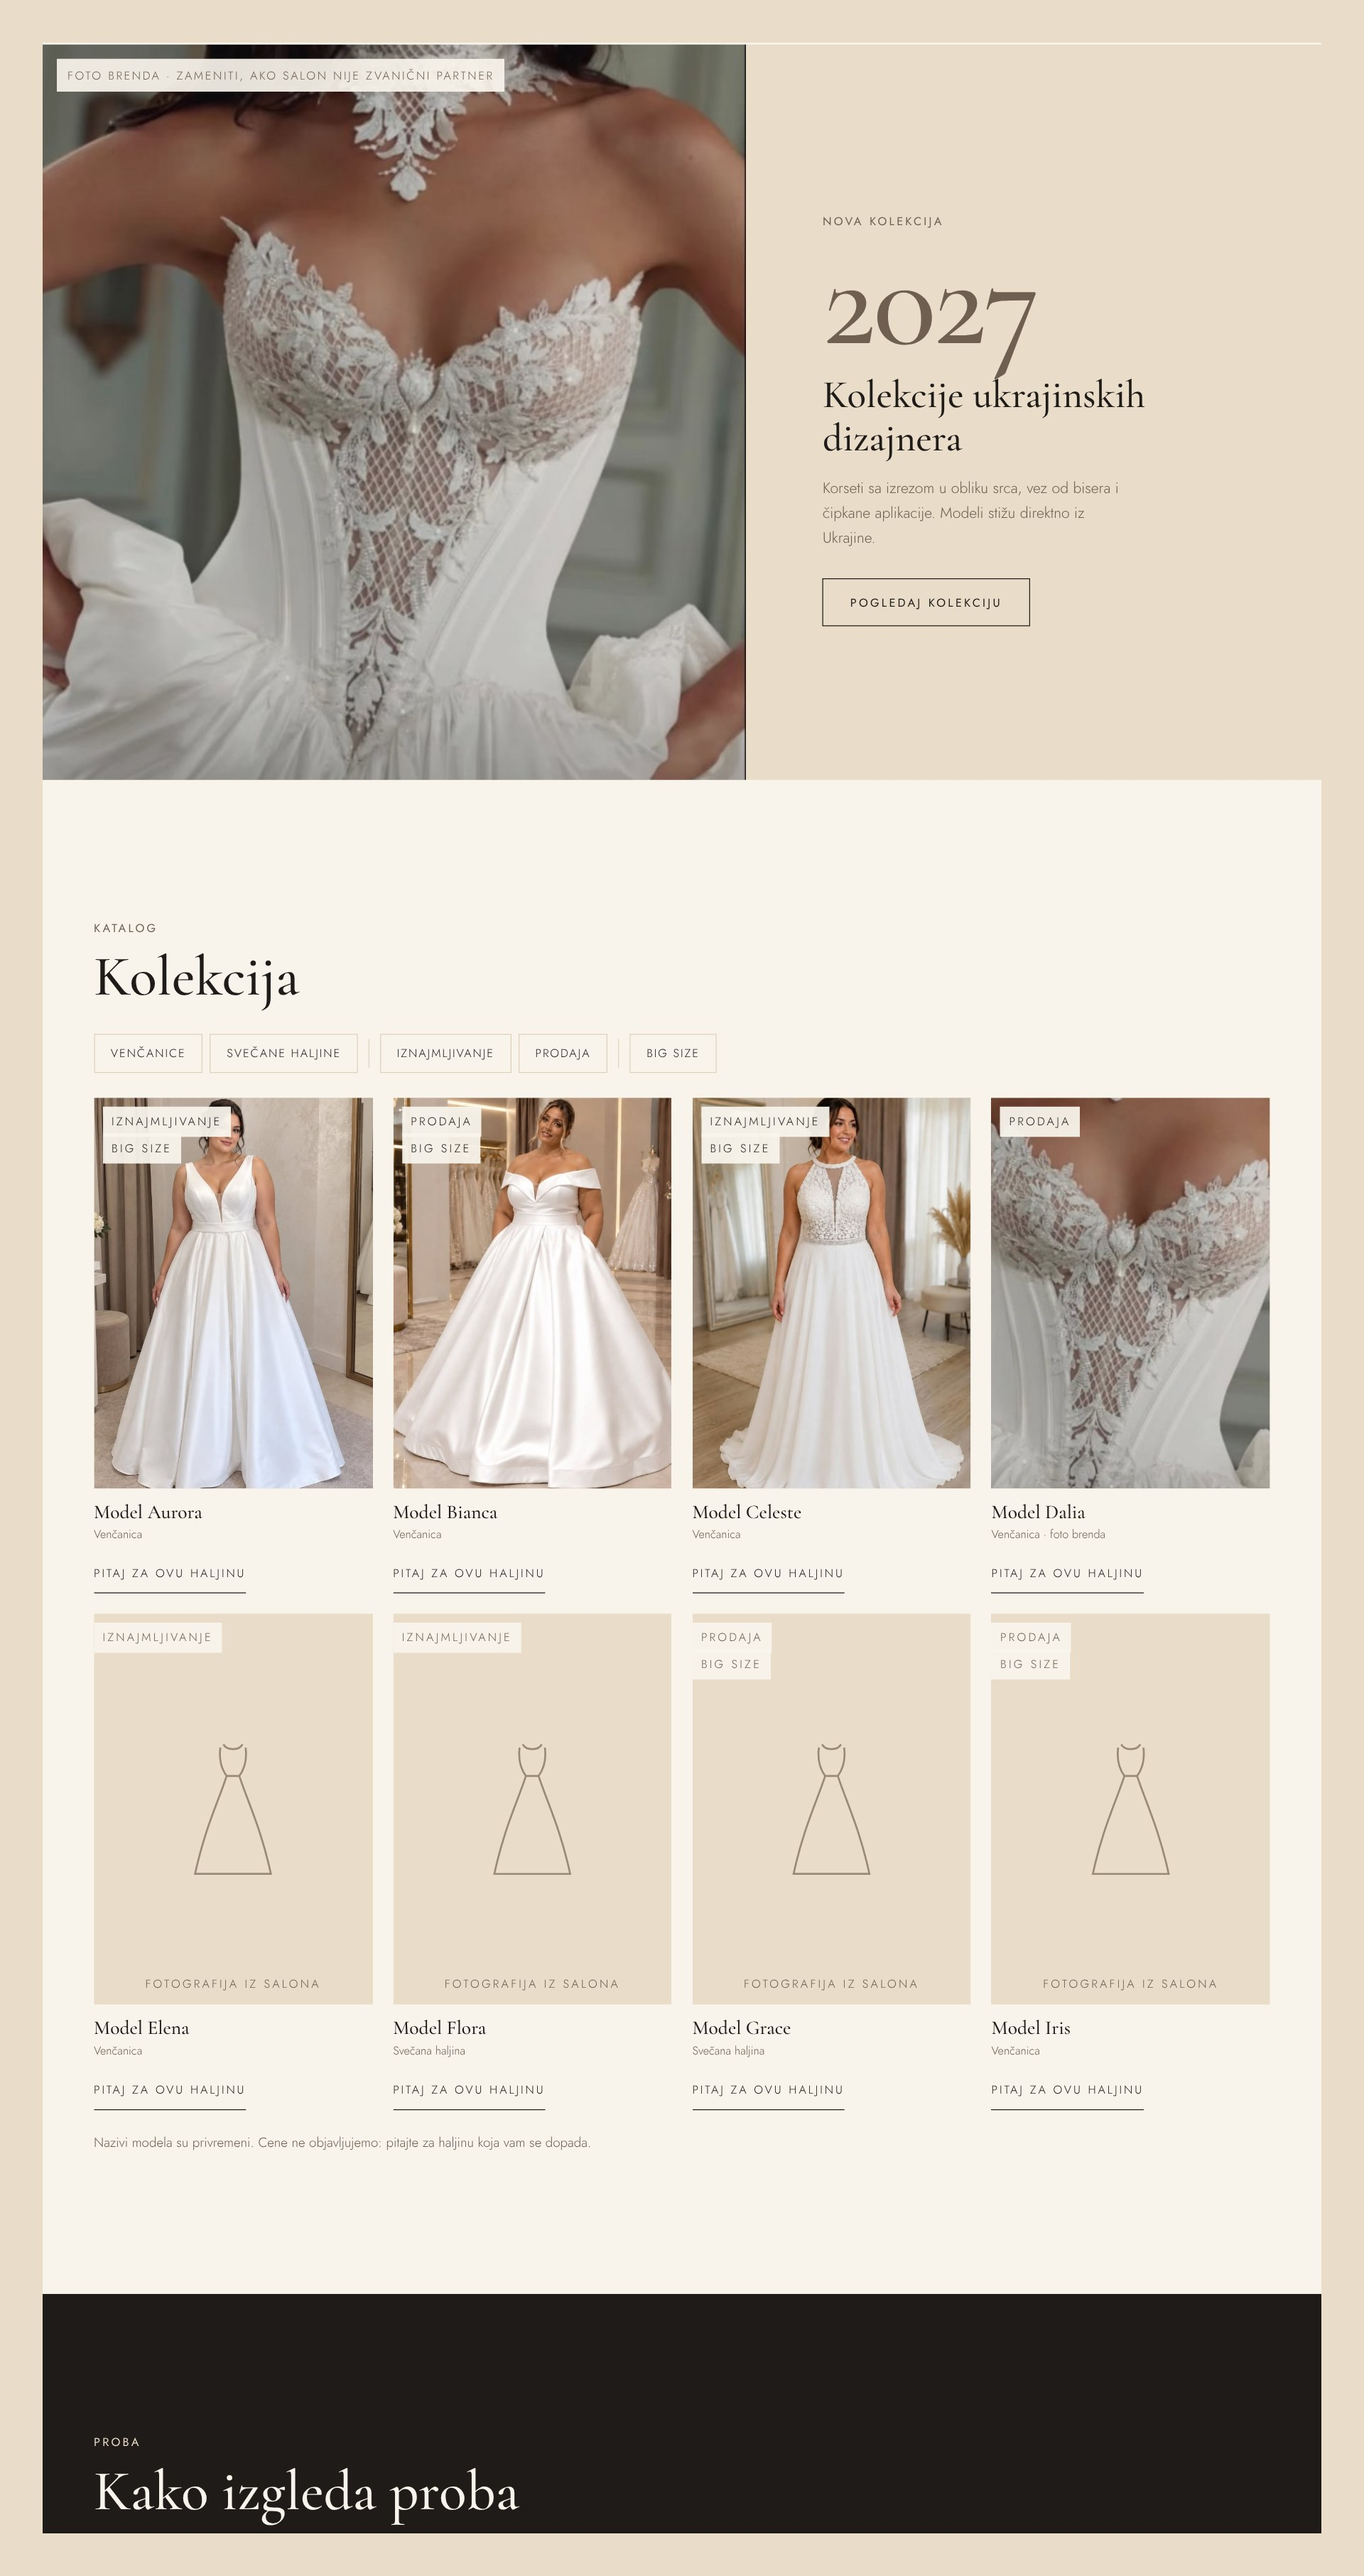
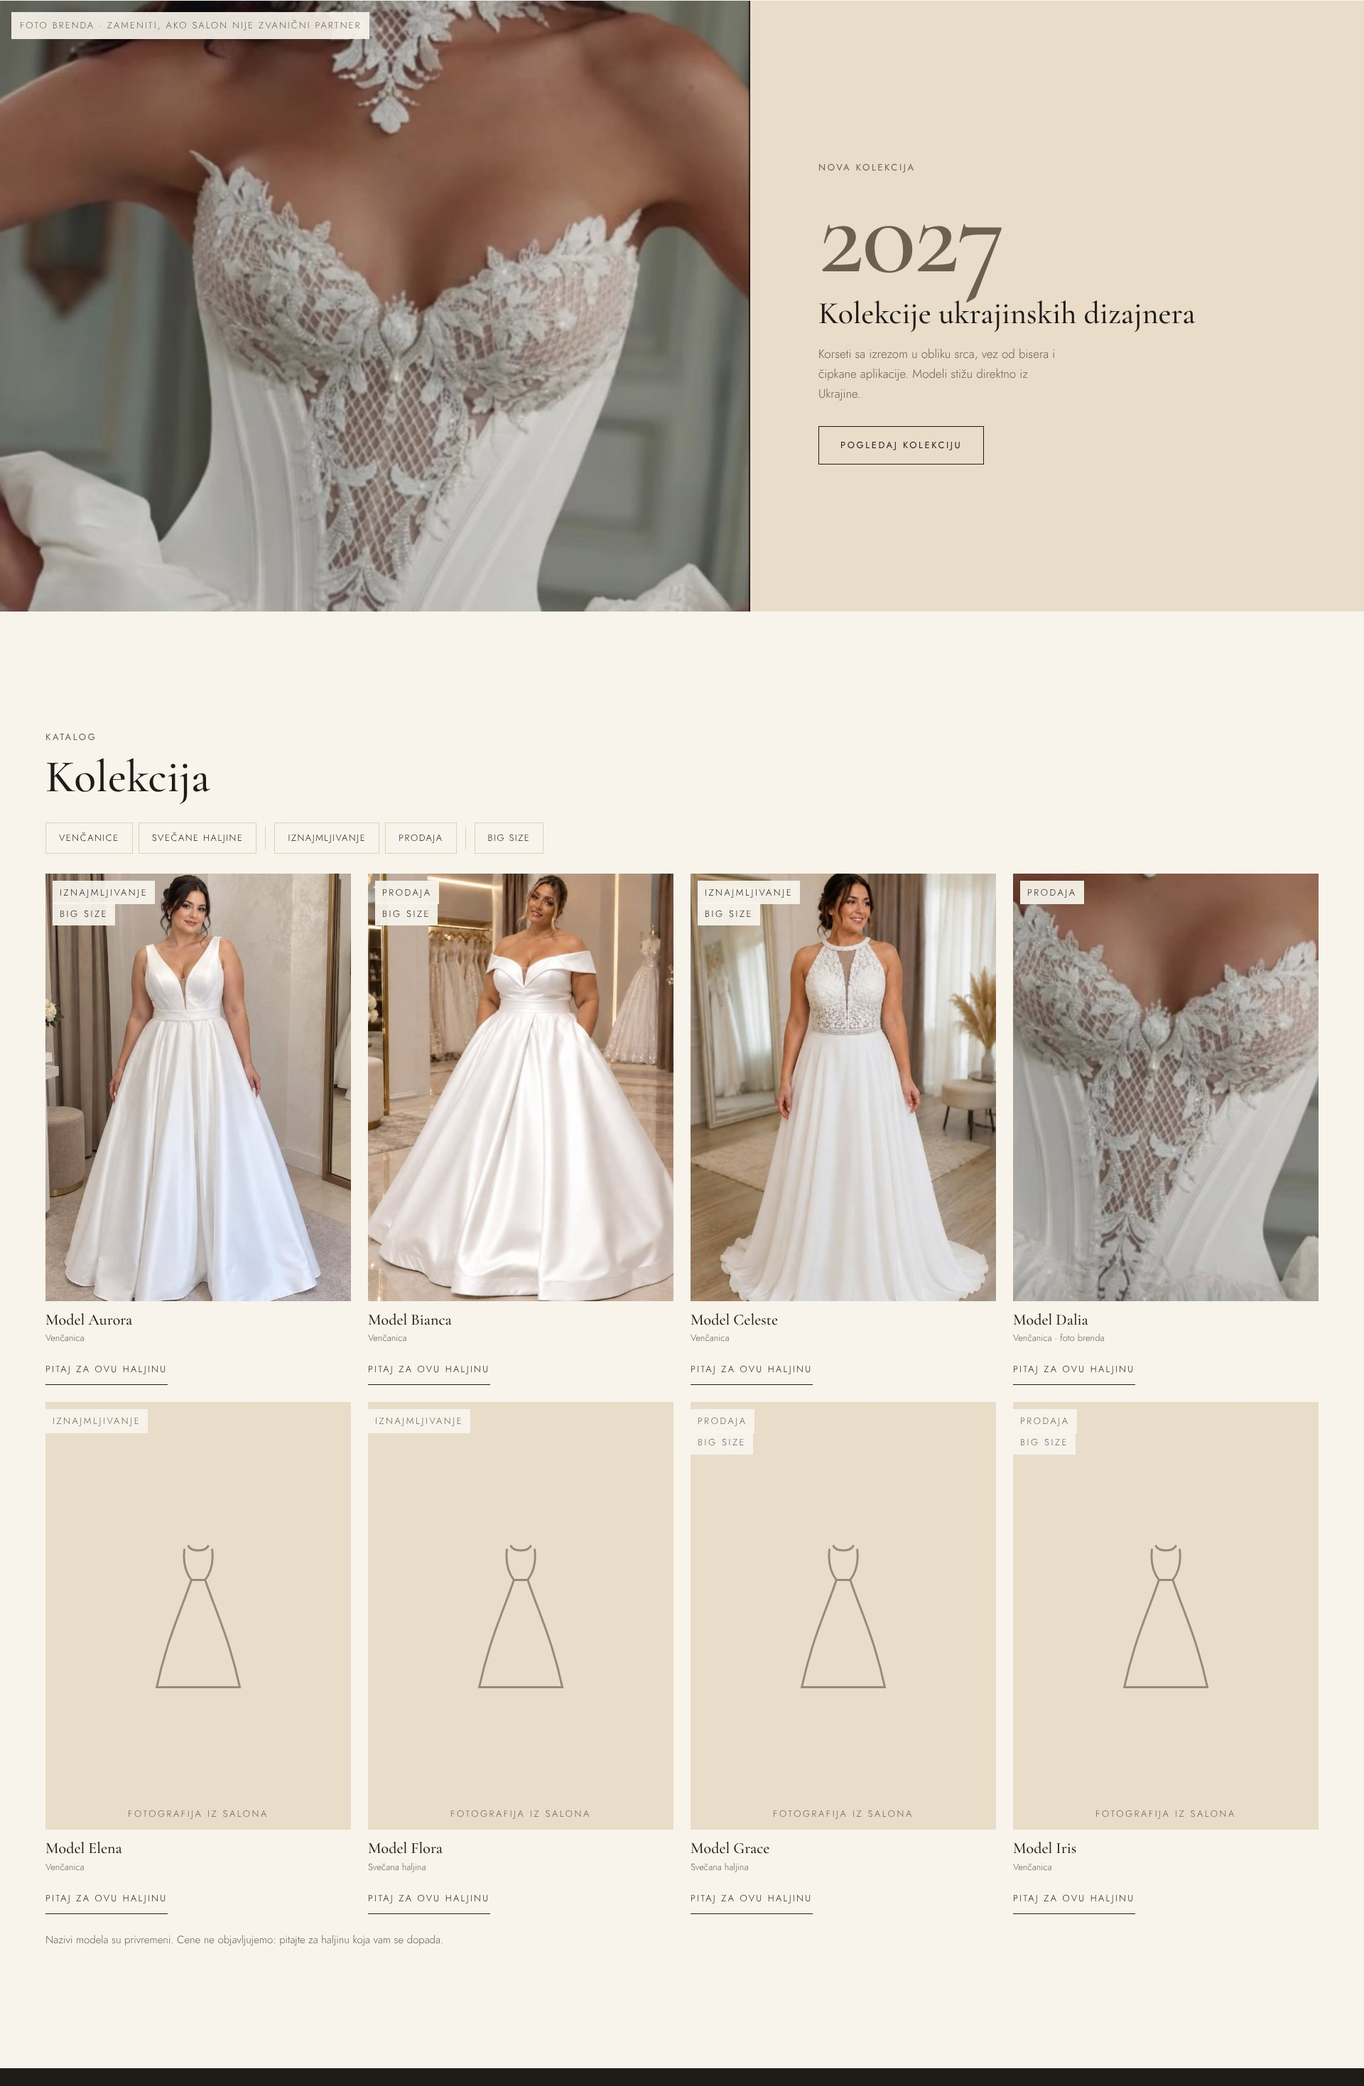
Sparkly: full-length dress in desktop hero, imports and size 60
Claude-Session: https://claude.ai/code/session_01UWZxjZDZsRNAHBMSR73c6z

diff --git a/sites/sparkly/index.html b/sites/sparkly/index.html
@@ -59,6 +59,15 @@ button{font:inherit;color:inherit}
 .hero h1 i{font-style:italic}
 .hero p.sub{margin-top:18px;font-size:clamp(1.0625rem,1rem + .4vw,1.25rem);line-height:1.5;max-width:30ch;color:rgba(248,244,236,.92)}
 .hero .acts{display:flex;gap:10px;flex-wrap:wrap;margin-top:30px}
+.hero-pic{position:absolute;inset:0}
+@media (min-width:861px){
+  .hero{align-items:center}
+  .hero-pic{left:auto;width:min(calc(100svh * 720 / 954),56%)}
+  .hero video,.hero .poster{object-position:50% 0}
+  .hero::after{background:linear-gradient(90deg,#2b2621 0,#2b2621 calc(100% - min(calc(100svh * 720 / 954),56%)),rgba(43,38,33,0) calc(100% - min(calc(100svh * 720 / 954),56%) + 120px)),linear-gradient(180deg,rgba(30,27,24,.3) 0,rgba(30,27,24,0) 22%)} /* taste-skill-ignore: scrim blends the photo into the text panel */
+  .hero-in{padding:120px var(--m) 80px;max-width:calc(100% - min(calc(100svh * 720 / 954),56%) + 40px)}
+  .hero .vid-note{right:auto;left:24px;top:auto;bottom:24px}
+}
 .vid-note{position:absolute;z-index:2;top:84px;right:var(--m);font-size:.8125rem;letter-spacing:.18em;text-transform:uppercase;color:rgba(248,244,236,.75);border:1px solid rgba(248,244,236,.35);padding:7px 12px} /* taste-skill-ignore: sketch annotation */
 
 /* BIG SIZE */
@@ -217,13 +226,15 @@ figcaption{margin-top:10px}
 
 <main>
 <section class="hero" aria-labelledby="h1">
-  <img class="poster" src="img/big-2.jpg" alt="" width="720" height="954">
-  <video autoplay muted loop playsinline preload="none" poster="img/big-2.jpg" aria-hidden="true"><source src="video/hero.mp4" type="video/mp4"></video>
-  <span class="vid-note">Skica · ovde ide video haljine</span>
+  <div class="hero-pic">
+    <img class="poster" src="img/big-2.jpg" alt="" width="720" height="954">
+    <video autoplay muted loop playsinline preload="none" poster="img/big-2.jpg" aria-hidden="true"><source src="video/hero.mp4" type="video/mp4"></video>
+    <span class="vid-note">Skica · ovde ide video haljine</span>
+  </div>
   <div class="hero-in">
     <p class="caps rise">Niš · Obrenovićeva</p>
     <h1 id="h1" class="rise">Venčanice<br><i>Sparkly</i></h1>
-    <p class="sub rise">Venčanice i svečane haljine u Nišu. Iznajmljivanje i prodaja.</p>
+    <p class="sub rise">Venčanice i svečane haljine u Nišu. Iznajmljivanje i prodaja. Modeli iz Ukrajine, Dubaija i drugih zemalja.</p>
     <div class="acts rise">
       <a class="btn btn--light" href="viber://chat?number=%2B381641913966">Zakaži probu</a>
       <a class="btn btn--ghost-light" href="#kolekcija">Pogledaj kolekciju</a>
@@ -236,7 +247,7 @@ figcaption{margin-top:10px}
     <p class="caps rise">Big size</p>
     <h2 id="big-h" class="rise">Venčanice za svaku figuru</h2>
     <p class="lead rise">Veliki izbor BIG SIZE modela, jer svaka mlada zaslužuje haljinu iz snova.</p>
-    <p class="badge rise">BIG SIZE</p>
+    <p class="badge rise">Do veličine 60</p>
     <a class="btn rise" href="#kolekcija" data-filter="big">Pogledaj BIG SIZE kolekciju</a>
   </div>
   <div class="big-pics">
@@ -292,8 +303,8 @@ figcaption{margin-top:10px}
 <section class="why" aria-labelledby="why-h">
   <div><p class="caps rise">Zašto Sparkly</p><h2 id="why-h" class="rise">Zašto mlade biraju nas</h2></div>
   <ul>
-    <li class="rise"><b aria-hidden="true"></b><span>Veliki izbor BIG SIZE venčanica</span></li>
-    <li class="rise"><b aria-hidden="true"></b><span>Kolekcije ukrajinskih dizajnera</span></li>
+    <li class="rise"><b aria-hidden="true"></b><span>BIG SIZE venčanice do veličine 60</span></li>
+    <li class="rise"><b aria-hidden="true"></b><span>Haljine iz Ukrajine, Dubaija i drugih zemalja</span></li>
     <li class="rise"><b aria-hidden="true"></b><span>Iznajmljivanje ili kupovina, kako vama odgovara</span></li>
   </ul>
 </section>
